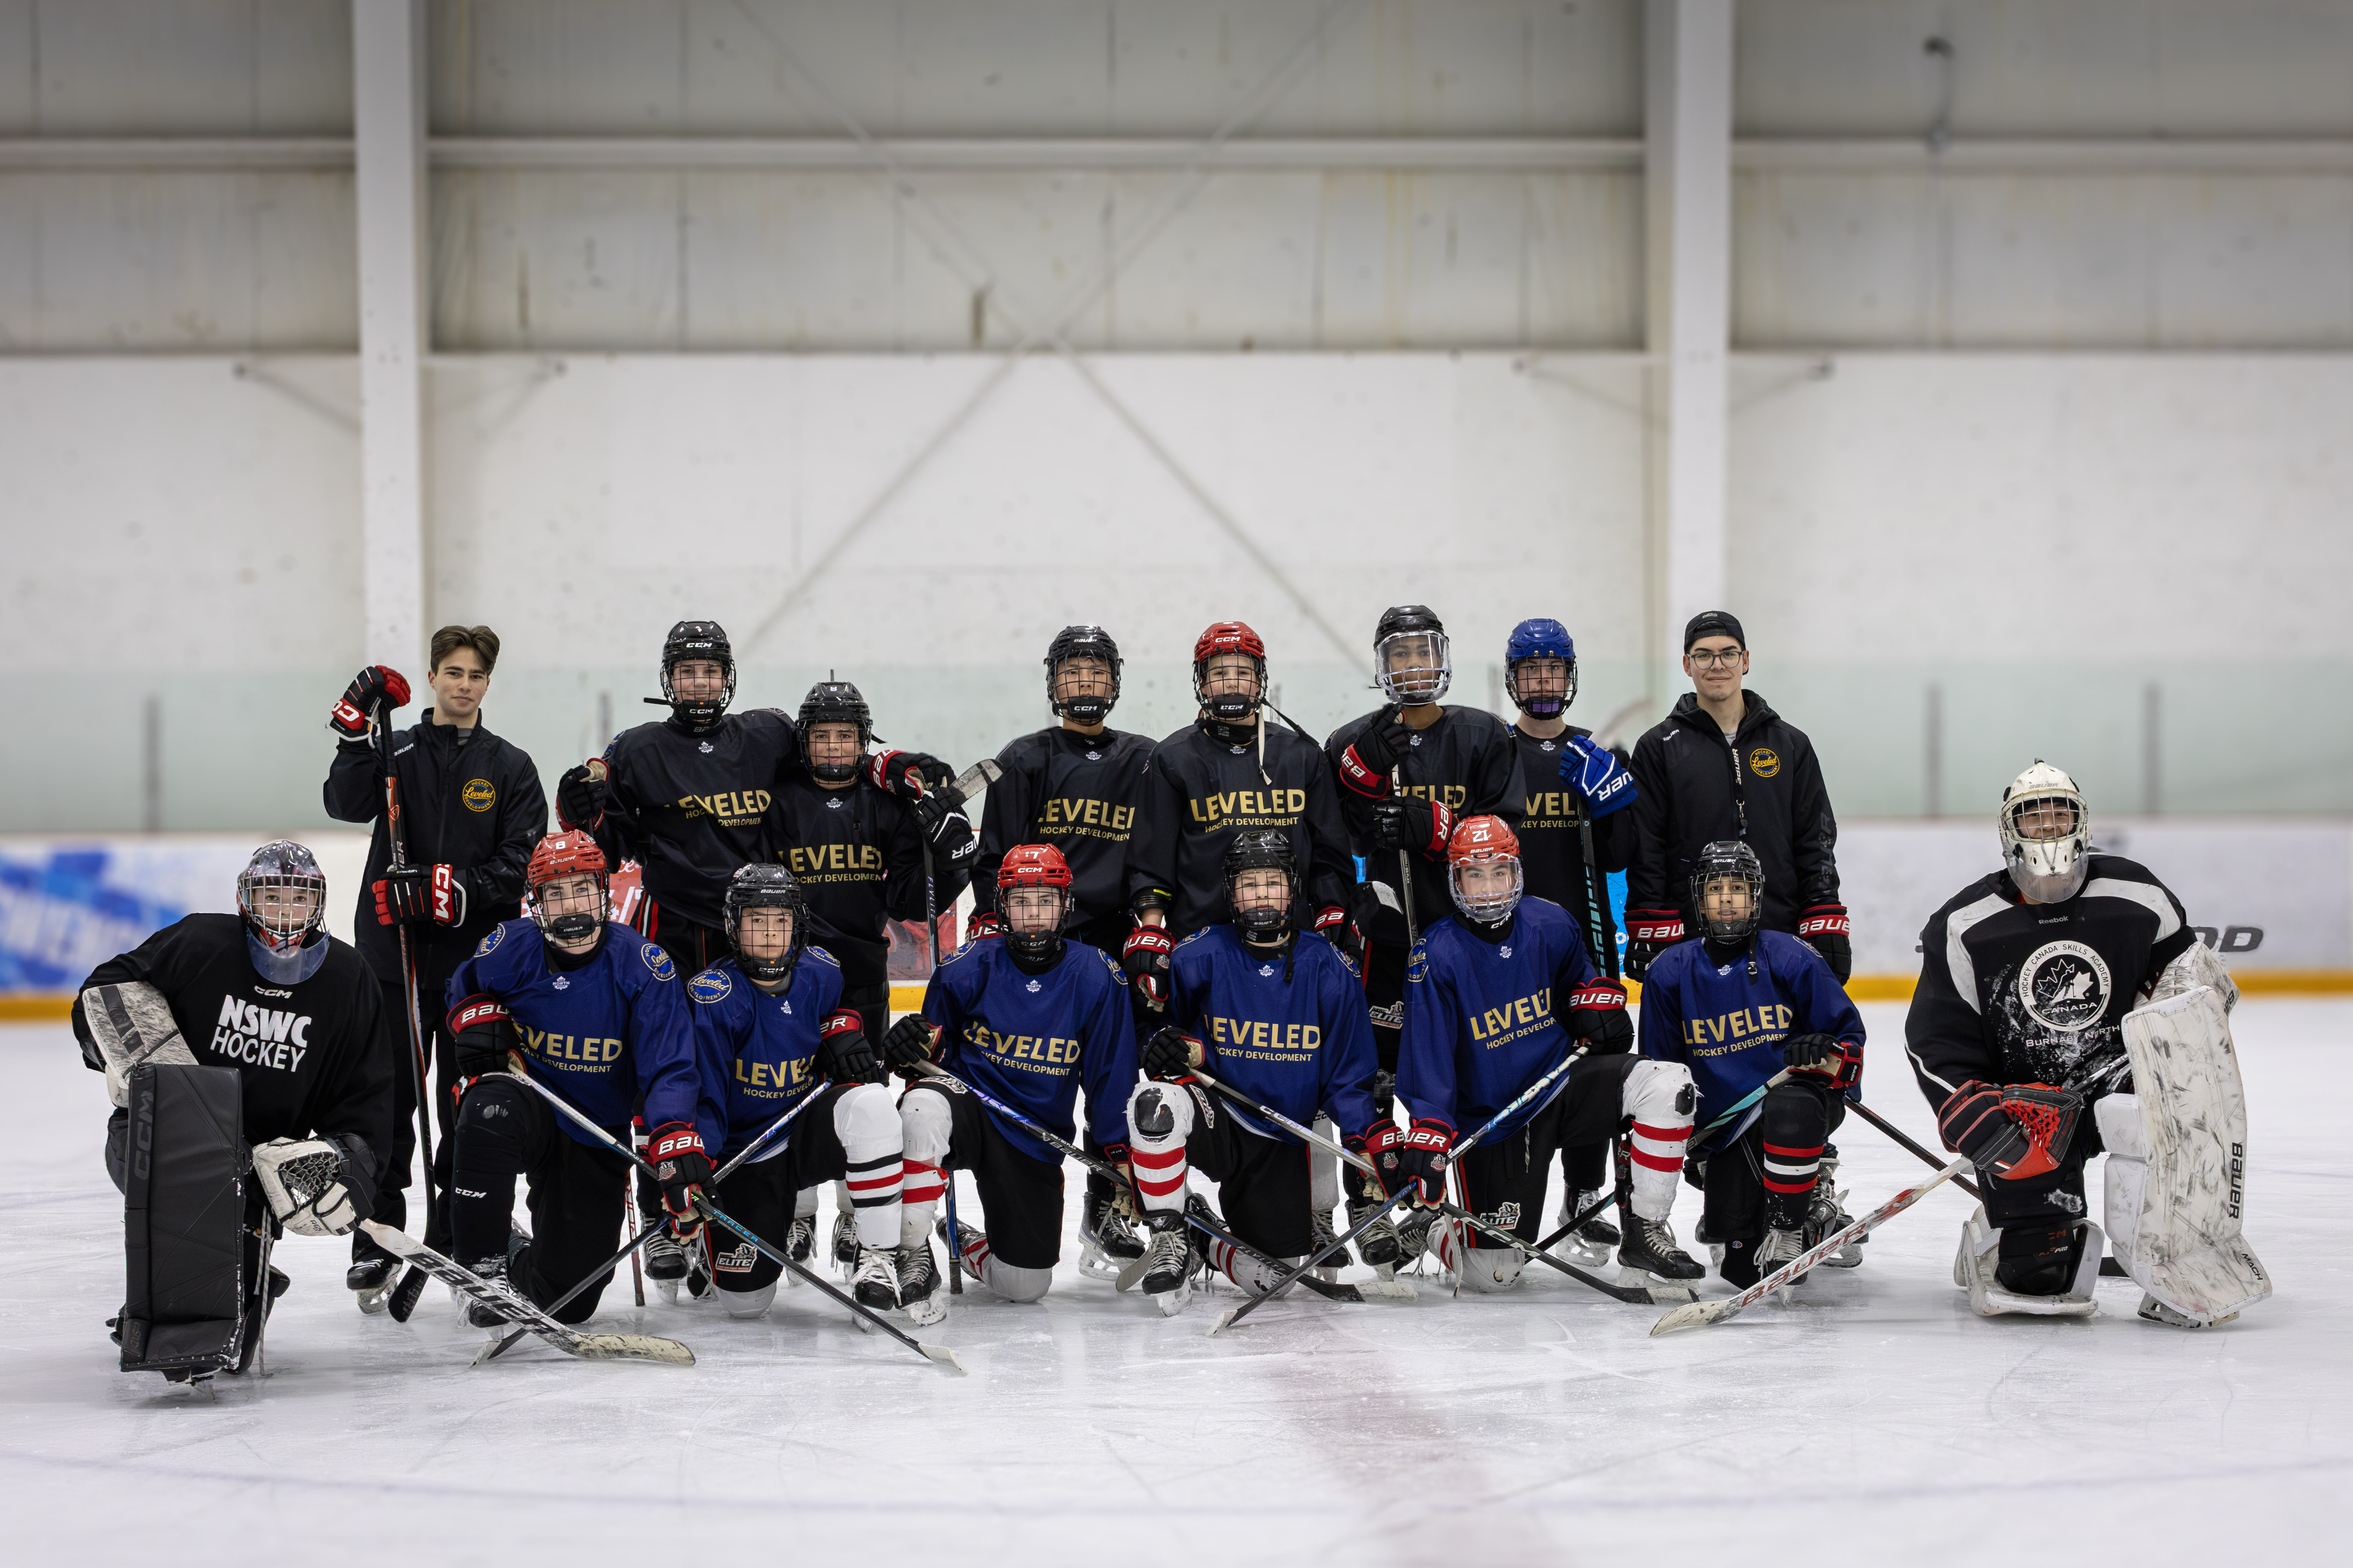
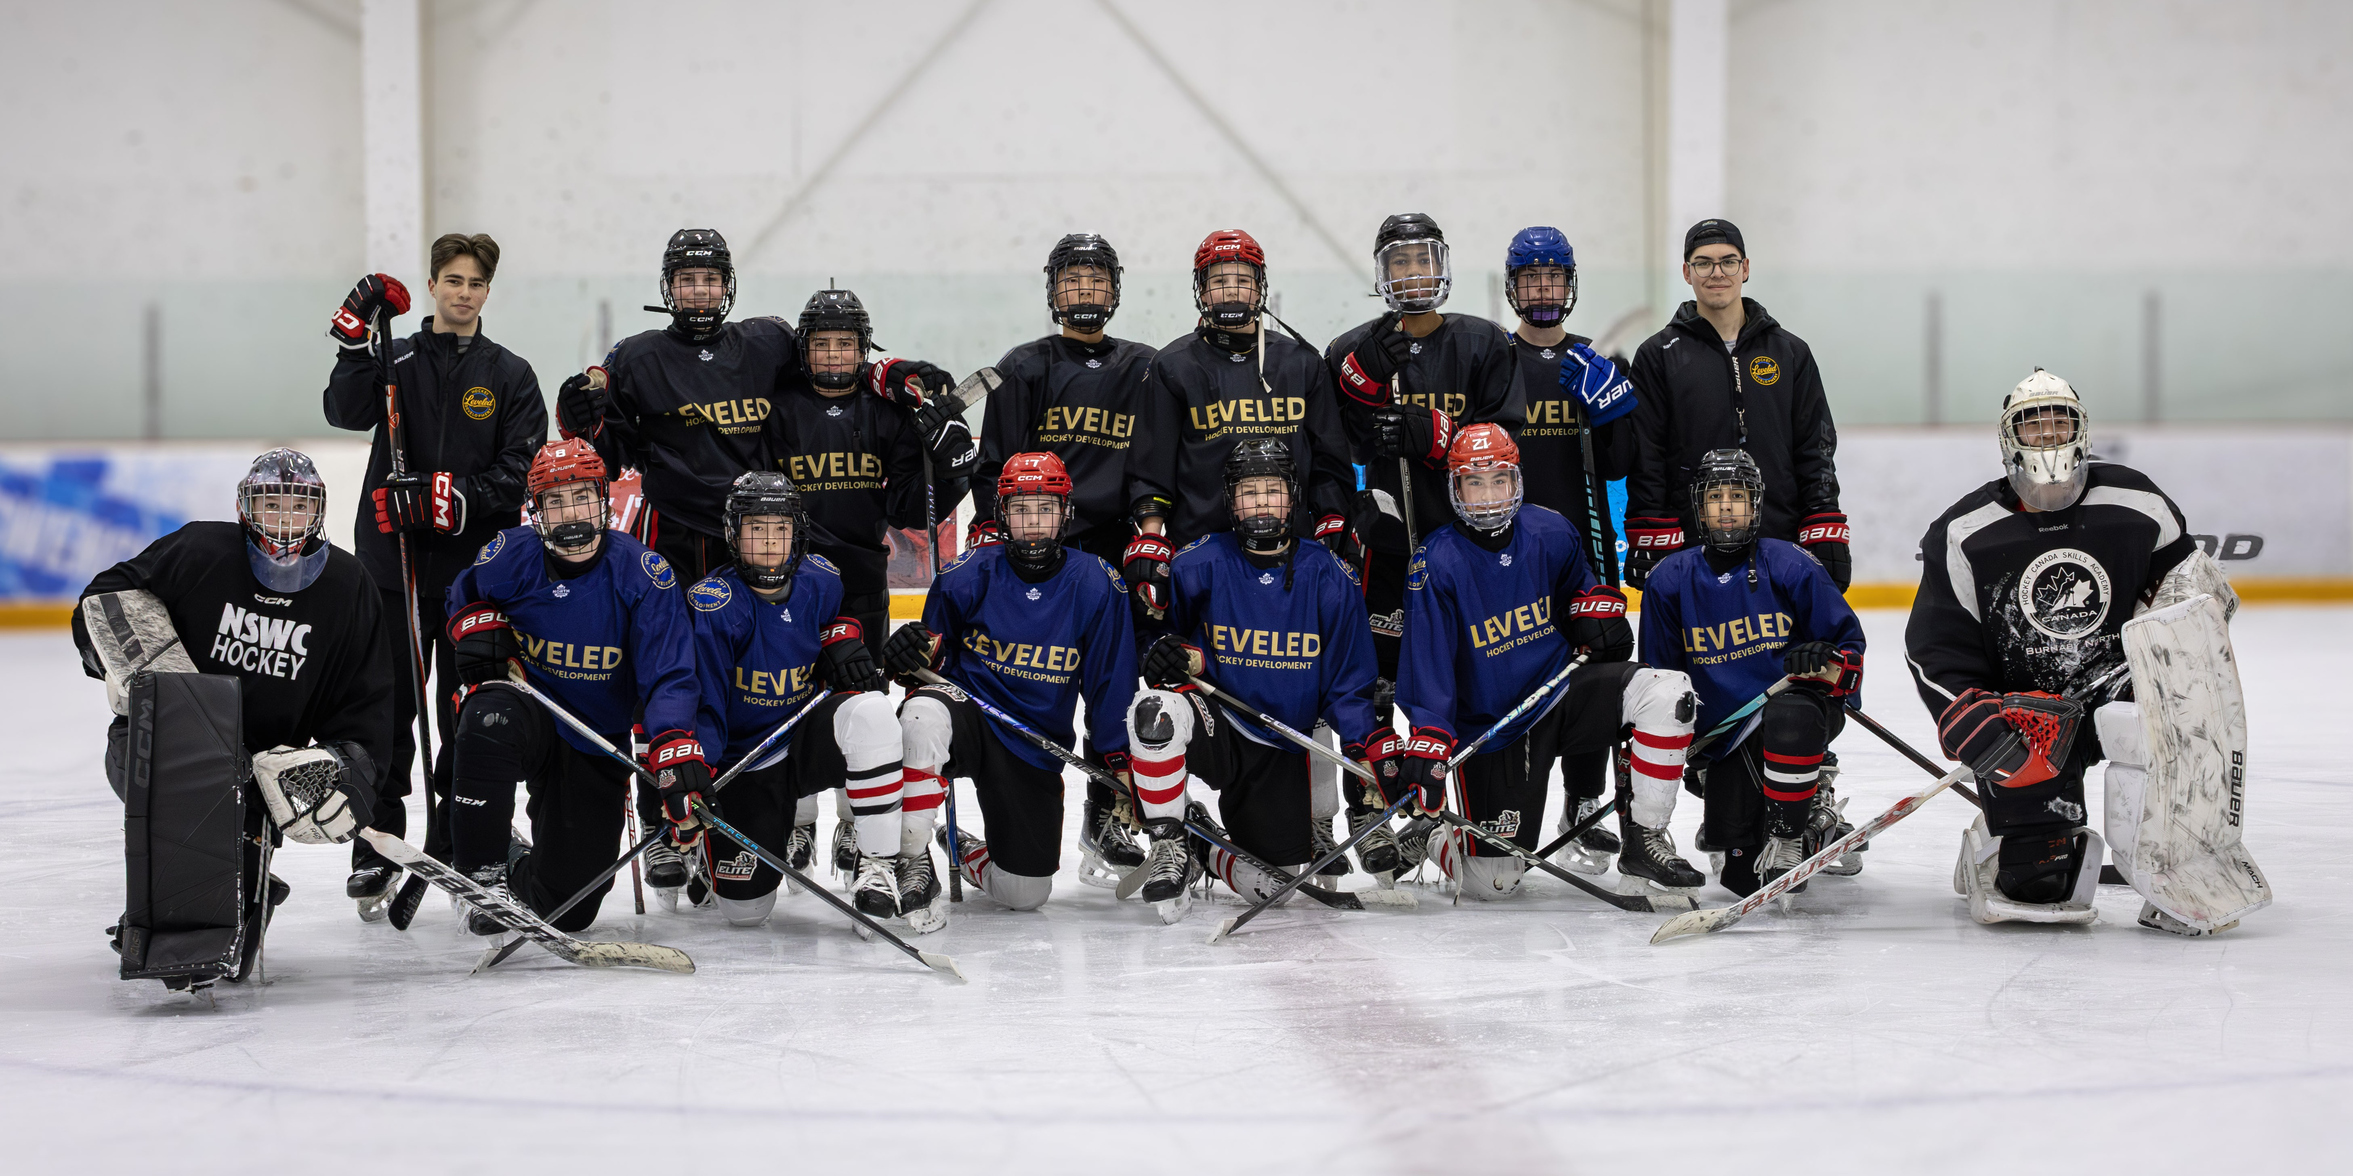
Cropped group photo

diff --git a/register.html b/register.html
@@ -821,7 +821,7 @@
 
   <!-- ===================== PAGE HERO ===================== -->
   <section class="page-hero">
-    <div class="page-hero-bg" style="background-image: url('images/action/D38A1169.jpg'); background-image: image-set(url('images/action/D38A1169.webp') type('image/webp'), url('images/action/D38A1169.jpg') type('image/jpeg')); background-position: center 10%;"></div>
+    <div class="page-hero-bg" style="background-image: url('images/action/D38A1169.jpg'); background-image: image-set(url('images/action/D38A1169.webp') type('image/webp'), url('images/action/D38A1169.jpg') type('image/jpeg')); background-position: center 50%;"></div>
     <div class="page-hero-overlay"></div>
     <div class="page-hero-content">
       <nav class="breadcrumb" aria-label="Breadcrumb">
